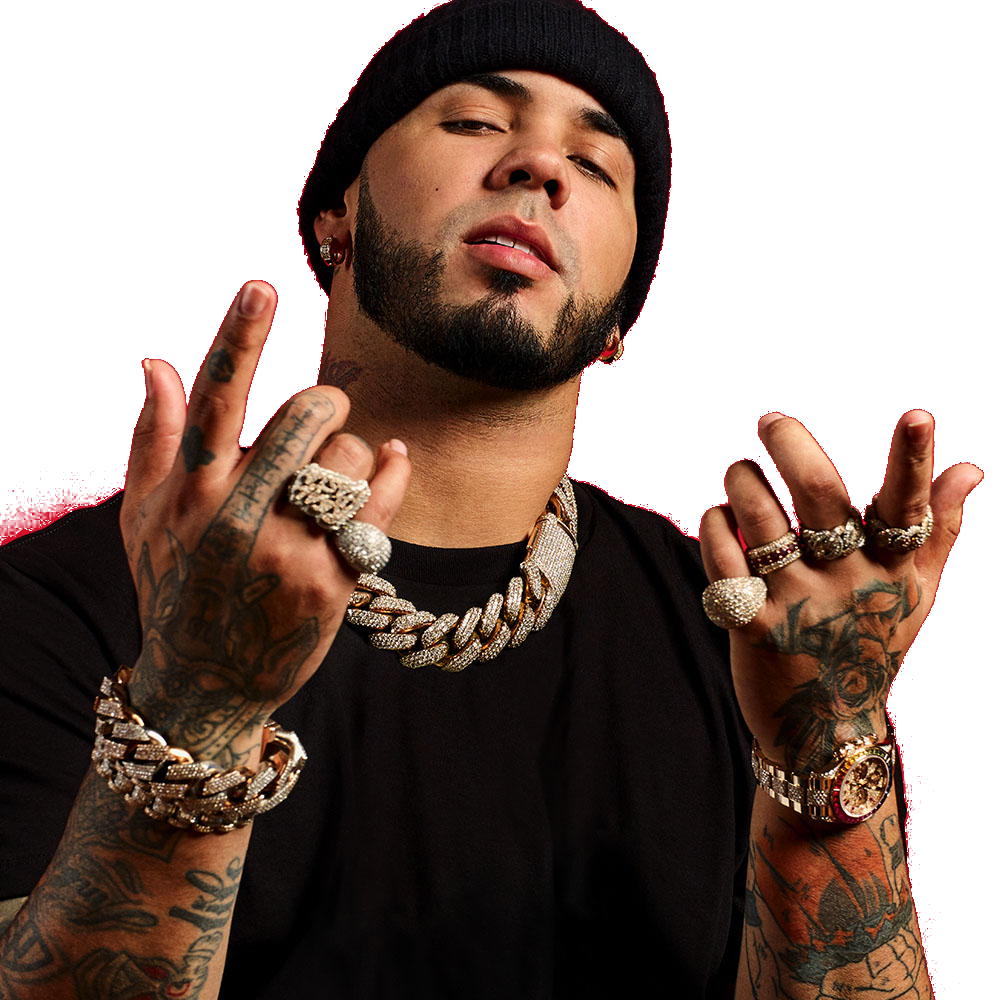
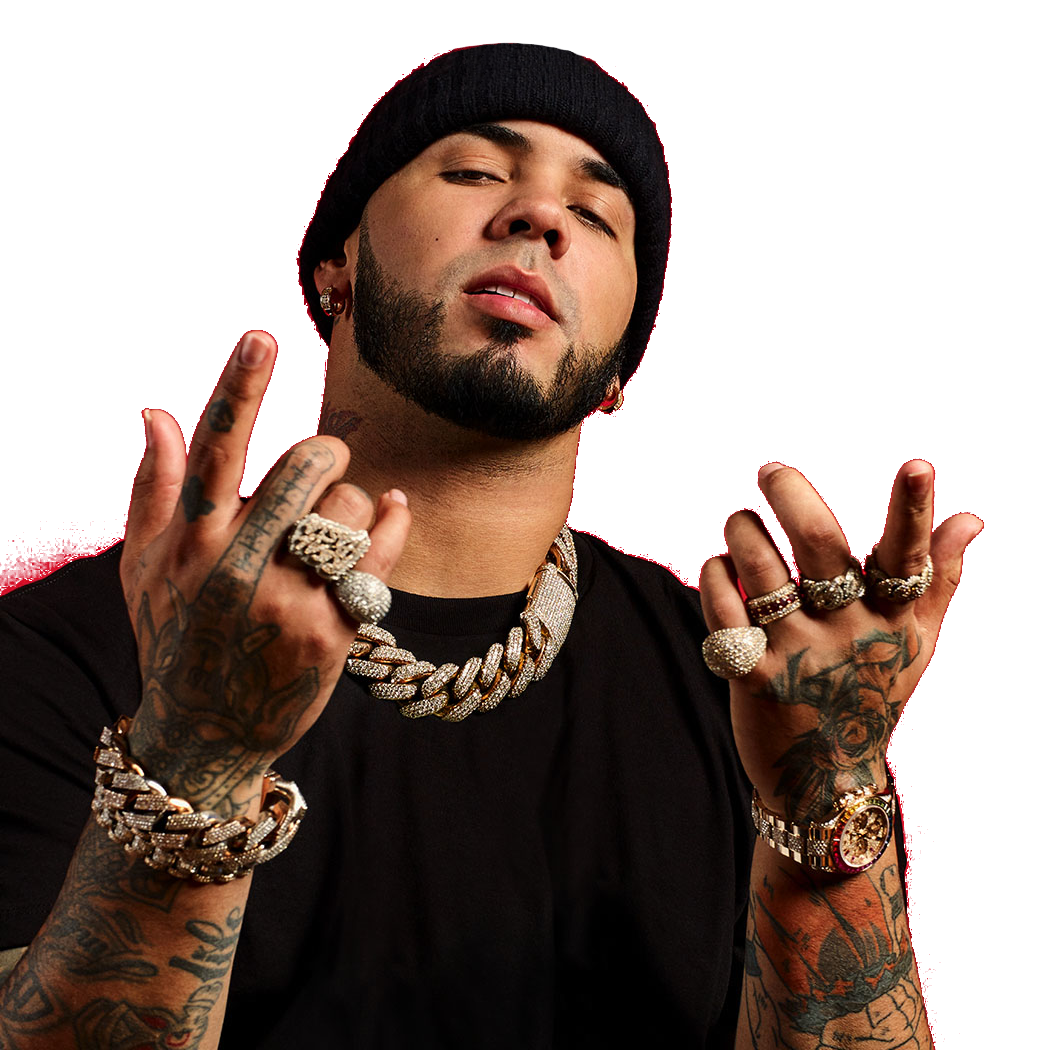
Fix 404 page

diff --git a/404.html b/404.html
@@ -9,15 +9,35 @@
     <title>Ups</title>
   </head>
   <body class="d-flex flex-column h-100">
-    <div class="col" style="background-color: #cd1f2c;">
-      <img src="./anueltransparente.png" style="top: 40vh; height: 60vh; width: 60vh;">
-    </div>
-    <div class="col">
-      <h1 style="color: #ffffff; font-family: Impact, Haettenschweiler, 'Arial Narrow Bold', sans-serif;">Te has equivocado de enlace</h1>
+    <div class="col" style="background-color: #cd1f2c; position: absolute;
+    left: 0;
+    bottom: 0;
+    height: 100%;
+    width: 100%;">
+      <img id="anuel" src="./anueltransparente.png" style="
+      position: absolute;
+      bottom: 0;
+      left: 0;">
+      <img src="./ups.png" style="width: 90vw; margin-top: 5vw; margin-left: 5vw;"
     </div>
 
     <noscript>
       <strong>We're sorry but <%= htmlWebpackPlugin.options.title %> doesn't work properly without JavaScript enabled. Please enable it to continue.</strong>
     </noscript>
   </body>
+
+  <style>
+    @media only screen and (max-width: 768px) {
+      #anuel {
+        height: 50vw;
+        width: 50vw;
+      }
+    }
+    @media only screen and (min-width: 769px) {
+      #anuel {
+        height: 35vw;
+        width: 35vw;
+      }
+    }
+  </style>
 </html>
